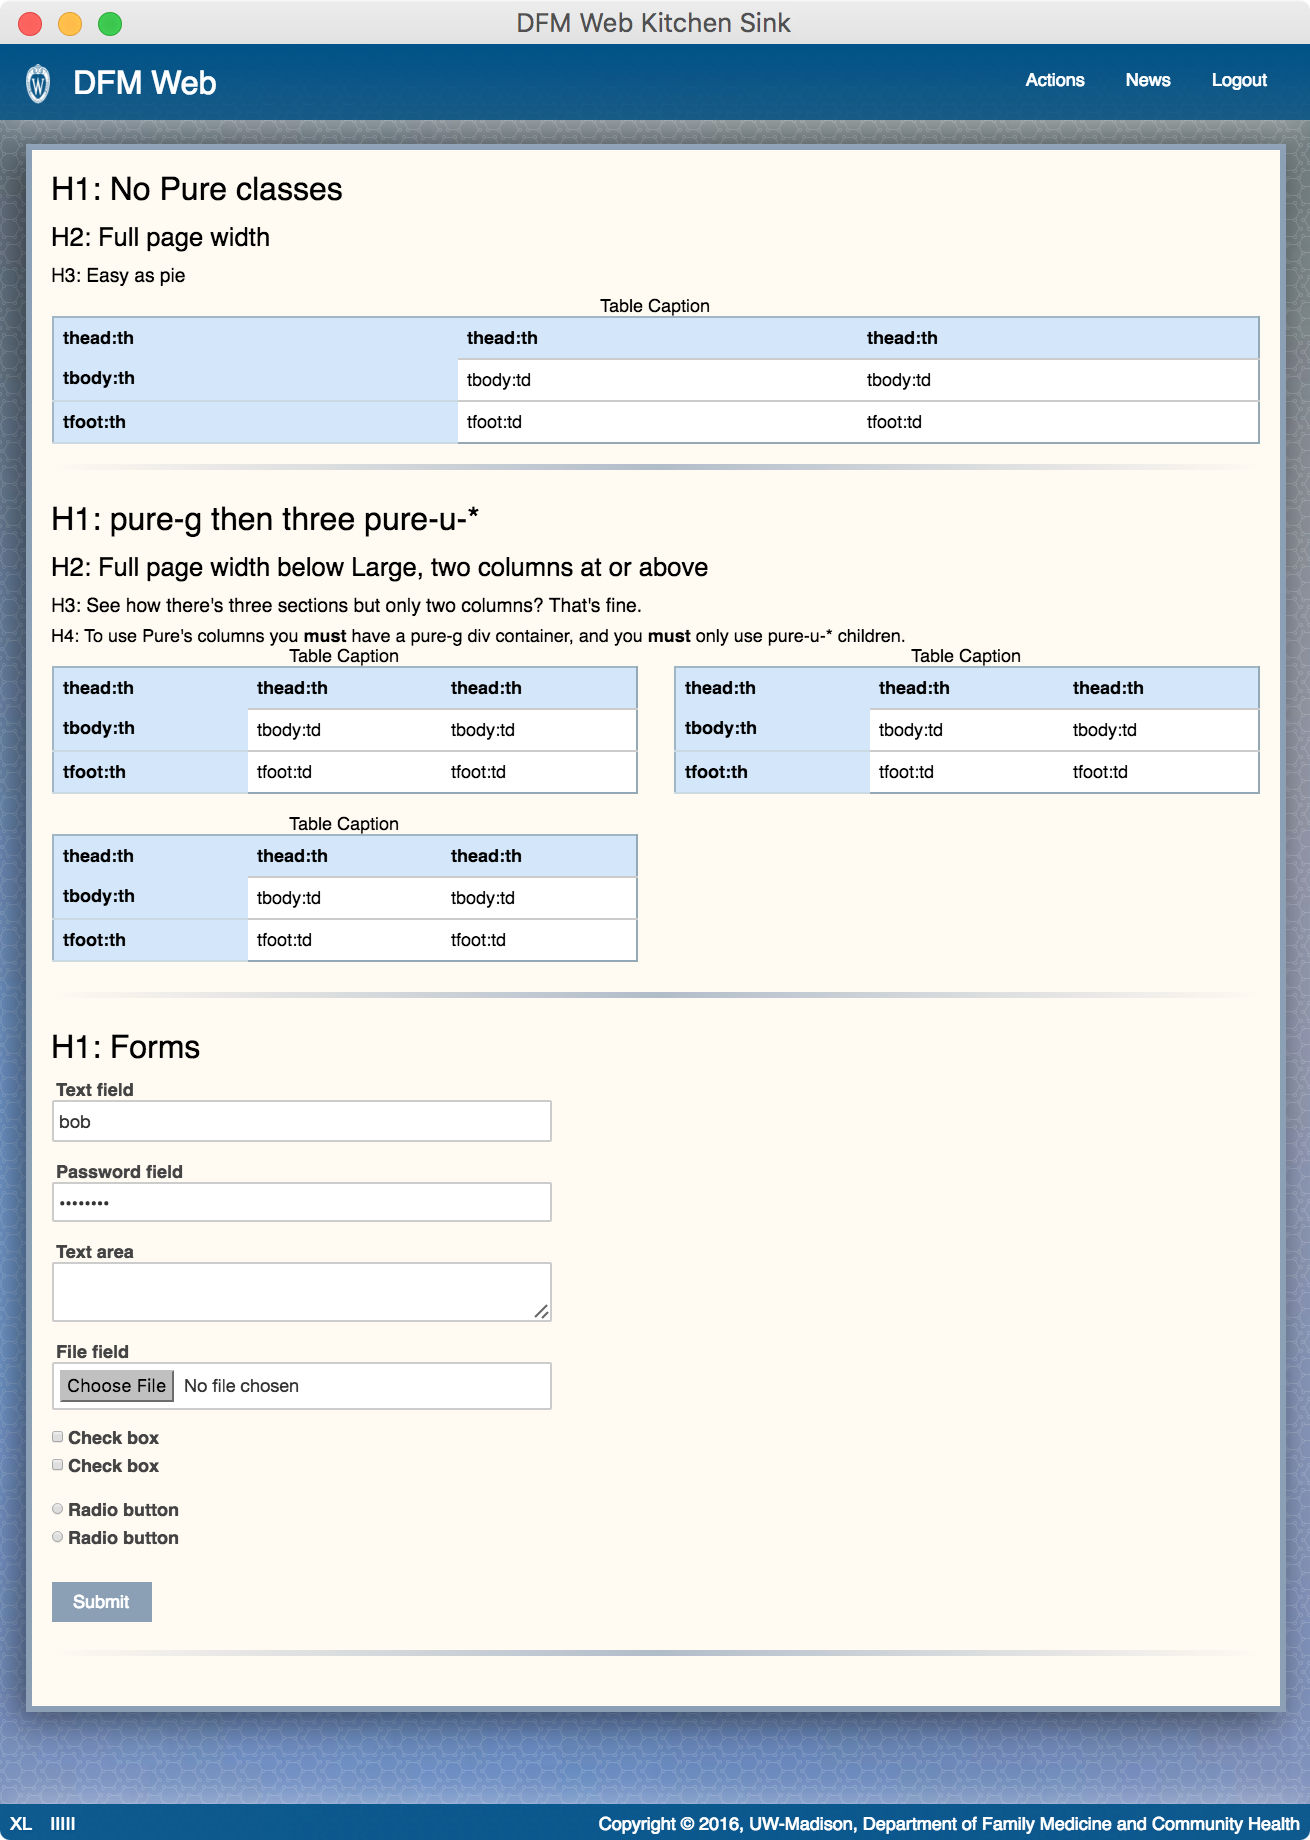
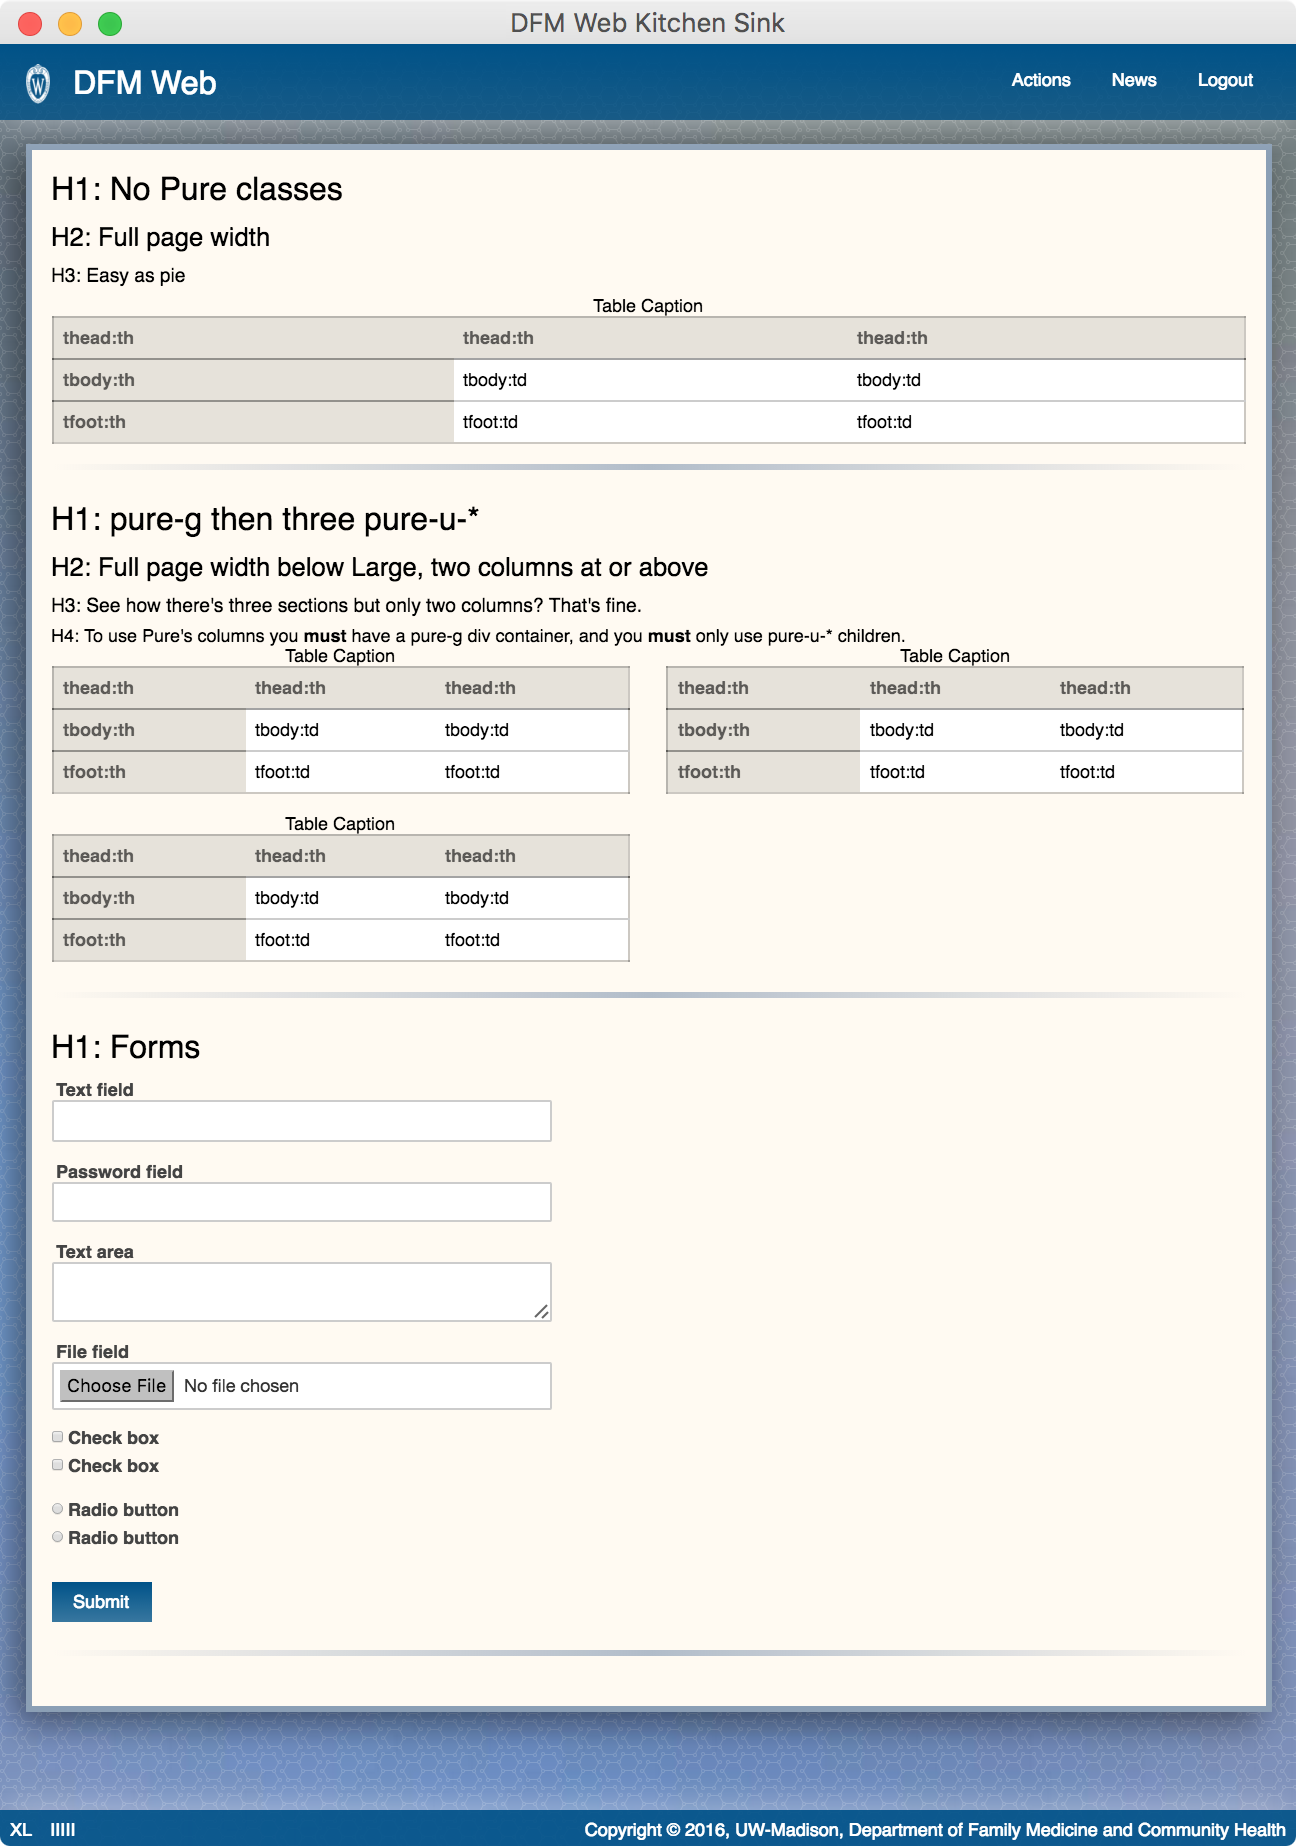
Clean up tables.  Smooth out transition between mobile and desktop.

diff --git a/app/assets/stylesheets/dfm_web/tables.css b/app/assets/stylesheets/dfm_web/tables.css
@@ -2,15 +2,13 @@ table {
     *border-collapse: collapse; /* IE7 and lower */
     border-spacing: 0;
     width: 100%;
-    border-width: 1px;
-    border-style: solid;
-    border-color: #a0b6c4 #94a8b5 #94a8b5 #a0b6c4;
+    border: 1px solid rgba(0,0,0,.2);
     margin-bottom: 20px;
 }
 table thead  { display: table-header-group; }
 
 table thead td, table thead th {
-  border: none;
+  border-left-width: 0;
   white-space: nowrap
 }
 
@@ -21,6 +19,25 @@ td, th {
     background-color: white;
     vertical-align: middle;
 }
+
+th {
+  background-color: rgba(0,0,0,.1);
+  color:  rgba(0,0,0,.6);
+  border-width: 0 0 1px 1px;
+  border-style: solid;
+  border-color: rgba(0,0,0,.2);
+}
+
+th:first-child {
+  border-left: 1px;
+}
+
+
+tr.warn td, tr.warn th {
+  color: red;
+  background-color: rgba(255, 0, 0, 0.04);
+}
+
 
 td input[type=text], th input[type=text]
 {
@@ -38,18 +55,6 @@ th.image a img, td.image a img
     text-align: center;
     display:inline-block;
     overflow:hidden;
-}
-
-
-th {
-    background-color: #d4e7fa;
-    border-width: 0 0 1px 1px;
-    border-style: solid;
-    border-color: #cbdae2;
-}
-
-th:first-child {
-    border-width:0 0 1px 0;
 }
 
 

diff --git a/app/assets/stylesheets/dfm_web/layout_media.css b/app/assets/stylesheets/dfm_web/layout_media.css
@@ -16,10 +16,19 @@
 
   #main {
     border-width: 0 !important;
+    box-shadow: none;
   }
 
   nav {
     position: relative;
     margin-bottom: -75px;
+    transition: margin 0s;
   }
+
+  html {
+    background-image: none;
+    background-color: rgb(255, 250, 242);  /* color copied from main */
+    transition: background-color .6s; /* Reduce the color jump */
+  }
+
 }

diff --git a/README.md b/README.md
@@ -3,4 +3,8 @@
 [![Build Status](https://travis-ci.com/DFMCH/dfm_web.svg?token=196vxcfGdDuHh5NupQpW&branch=master)](https://travis-ci.com/DFMCH/dfm_web)
 
 
+## Kitchen Sink:
 ![README.png](README.png)
+
+## iPad and Smaller:
+![README_MOBILE.png](README_MOBILE.png)
